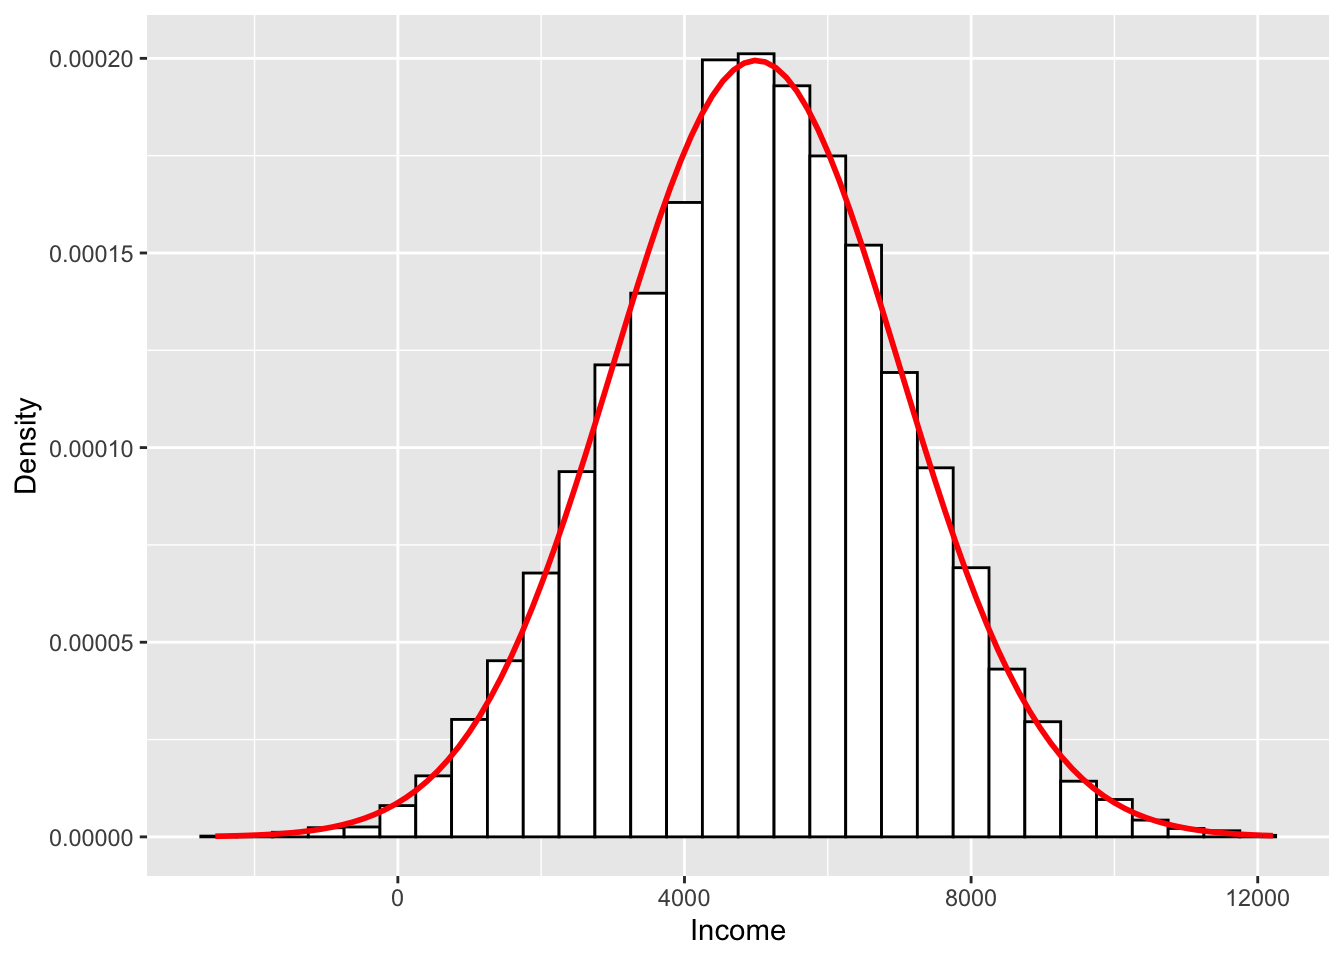
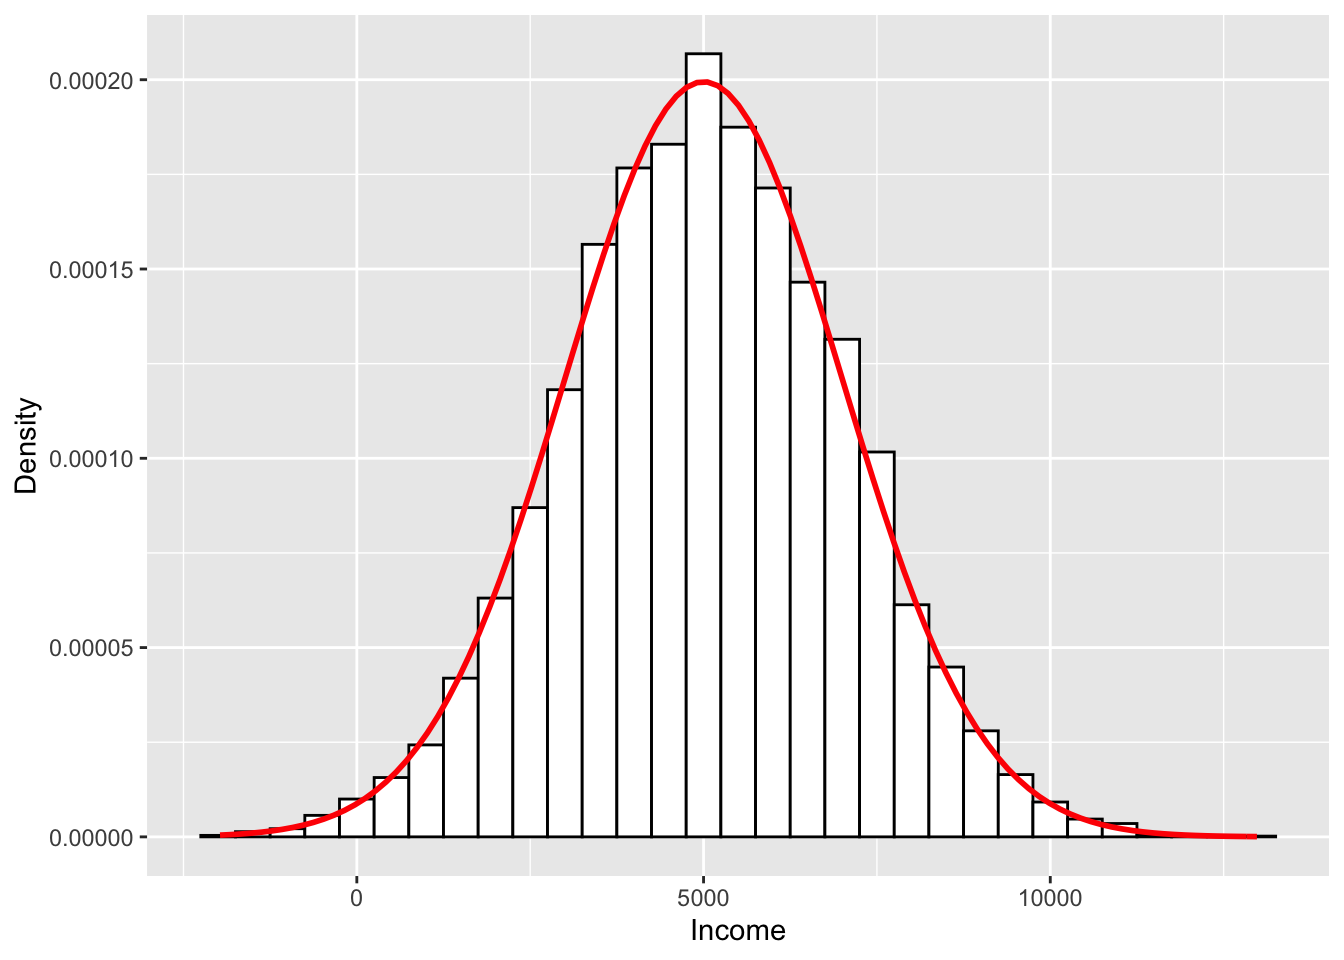
no message

diff --git a/rprogramming/index.html b/rprogramming/index.html
@@ -837,16 +837,16 @@ while (Total &lt; 30) {
   Trial &lt;- Trial + 1
 }</code></pre>
 <pre><code>## [1] &quot;1回目のサイコロ投げの結果: 1(これまでの総和: 1)&quot;
-## [1] &quot;2回目のサイコロ投げの結果: 3(これまでの総和: 4)&quot;
-## [1] &quot;3回目のサイコロ投げの結果: 1(これまでの総和: 5)&quot;
-## [1] &quot;4回目のサイコロ投げの結果: 3(これまでの総和: 8)&quot;
-## [1] &quot;5回目のサイコロ投げの結果: 3(これまでの総和: 11)&quot;
-## [1] &quot;6回目のサイコロ投げの結果: 3(これまでの総和: 14)&quot;
-## [1] &quot;7回目のサイコロ投げの結果: 2(これまでの総和: 16)&quot;
-## [1] &quot;8回目のサイコロ投げの結果: 3(これまでの総和: 19)&quot;
-## [1] &quot;9回目のサイコロ投げの結果: 6(これまでの総和: 25)&quot;
-## [1] &quot;10回目のサイコロ投げの結果: 2(これまでの総和: 27)&quot;
-## [1] &quot;11回目のサイコロ投げの結果: 5(これまでの総和: 32)&quot;</code></pre>
+## [1] &quot;2回目のサイコロ投げの結果: 2(これまでの総和: 3)&quot;
+## [1] &quot;3回目のサイコロ投げの結果: 3(これまでの総和: 6)&quot;
+## [1] &quot;4回目のサイコロ投げの結果: 5(これまでの総和: 11)&quot;
+## [1] &quot;5回目のサイコロ投げの結果: 4(これまでの総和: 15)&quot;
+## [1] &quot;6回目のサイコロ投げの結果: 2(これまでの総和: 17)&quot;
+## [1] &quot;7回目のサイコロ投げの結果: 1(これまでの総和: 18)&quot;
+## [1] &quot;8回目のサイコロ投げの結果: 2(これまでの総和: 20)&quot;
+## [1] &quot;9回目のサイコロ投げの結果: 2(これまでの総和: 22)&quot;
+## [1] &quot;10回目のサイコロ投げの結果: 3(これまでの総和: 25)&quot;
+## [1] &quot;11回目のサイコロ投げの結果: 5(これまでの総和: 30)&quot;</code></pre>
 <p>それでは、コードの説明をします。まず、これまで出た目の和を記録する変数<code>Total</code>を用意し、初期値として0を格納します。また、何回目の投げかを記録するための<code>Trial</code>変数を記録し、初期値として1を格納しておきます (コードの1、2行目)。</p>
 <p>続いて<code>while()</code>文を入れます。反復する条件は<code>Total</code>が30より小さい場合と設定します。つまり、<code>Total</code>が30以上になったら反復を終了することを意味します (コードの4行目)。</p>
 <p>つづいて、サイコロ投げをし、出た目を<code>Dice</code>という変数に格納します。サイコロ投げは1から6の間の整数から無作為に一つを値を抽出することでできます。そこで使われるのが<code>sample()</code>関数です (コードの5行目)。<code>sample()</code>関数は与えられたベクトル内の要素を無作為に抽出する関数です。<code>sample(c(1, 2, 3, 4, 5, 6), 1)</code>は「<code>c(1, 2, 3, 4, 5, 6)</code>から1つの要素を無作為に抽出せよ」という意味です。むろん、複数の要素を抽出することも可能ですし、数値型ベクトルでなく、文字型ベクトルから抽出することも可能です。サイコロ投げをしたら、その目を<code>Total</code>の値に足します (コードの6行目)。</p>
@@ -867,17 +867,16 @@ for (Trial in 1:30) {
     break() # ()は省略可能
   }
 }</code></pre>
-<pre><code>## [1] &quot;1回目のサイコロ投げの結果: 1 (これまでの総和: 1)&quot;
-## [1] &quot;2回目のサイコロ投げの結果: 4 (これまでの総和: 5)&quot;
-## [1] &quot;3回目のサイコロ投げの結果: 6 (これまでの総和: 11)&quot;
-## [1] &quot;4回目のサイコロ投げの結果: 2 (これまでの総和: 13)&quot;
+<pre><code>## [1] &quot;1回目のサイコロ投げの結果: 4 (これまでの総和: 4)&quot;
+## [1] &quot;2回目のサイコロ投げの結果: 5 (これまでの総和: 9)&quot;
+## [1] &quot;3回目のサイコロ投げの結果: 1 (これまでの総和: 10)&quot;
+## [1] &quot;4回目のサイコロ投げの結果: 3 (これまでの総和: 13)&quot;
 ## [1] &quot;5回目のサイコロ投げの結果: 1 (これまでの総和: 14)&quot;
-## [1] &quot;6回目のサイコロ投げの結果: 6 (これまでの総和: 20)&quot;
-## [1] &quot;7回目のサイコロ投げの結果: 2 (これまでの総和: 22)&quot;
-## [1] &quot;8回目のサイコロ投げの結果: 1 (これまでの総和: 23)&quot;
-## [1] &quot;9回目のサイコロ投げの結果: 3 (これまでの総和: 26)&quot;
-## [1] &quot;10回目のサイコロ投げの結果: 3 (これまでの総和: 29)&quot;
-## [1] &quot;11回目のサイコロ投げの結果: 3 (これまでの総和: 32)&quot;</code></pre>
+## [1] &quot;6回目のサイコロ投げの結果: 5 (これまでの総和: 19)&quot;
+## [1] &quot;7回目のサイコロ投げの結果: 1 (これまでの総和: 20)&quot;
+## [1] &quot;8回目のサイコロ投げの結果: 2 (これまでの総和: 22)&quot;
+## [1] &quot;9回目のサイコロ投げの結果: 5 (これまでの総和: 27)&quot;
+## [1] &quot;10回目のサイコロ投げの結果: 3 (これまでの総和: 30)&quot;</code></pre>
 <p>まず、サイコロを何回投げれば良いかは分かりませんが6面サイコロの場合、30回以内には必ず合計30になるので、まず<code>Trial in 1:30</code>とします。あとは<code>while()</code>文の書き方とほぼ同じですが、今回は<code>i</code>が自動的に更新されるので<code>i &lt;- i + 1</code>は不要です。ただし、一定の条件が満たされる場合、<code>for()</code>文を停止する必要があります。そこで登場するのが条件分岐と<code>break()</code>です。条件分岐は次節で説明しますが、これは「<code>Total</code>が30以上になった場合、ループから脱出せよ」を意味します。このループからの脱出を指示する関数が<code>break()</code>です。ちなみに、<code>break()</code>関数は<code>()</code>を抜いて<code>break</code>と書いても問題ありません。また、<code>if(){}</code>内の処理内容は一行ですので、<code>if (Total &gt;= 30) break</code>のような書き方でも問題ありません。</p>
 <p>これは余談ですが、結果の表示に今回はこれまで使ってきた<code>print()</code>と<code>paste0()</code> (または<code>paste()</code>)を使わず、<code>sprintf()</code>を使いました。人によってはこっちの書き方を好む場合もあります。<code>sprintf()</code>内の<code>%d</code>はその位置に指定された変数の値を整数として代入することを意味します。<code>sprintf()</code>はまず、出力する文字列を指定し、続いて代入する変数を順番に引数として入れます。<code>%s</code>は文字型、<code>%f</code>は実数を意味します。<code>%f</code>の場合、少数点の桁数も指定可能であり、小数点2桁まで表示させる場合は<code>%.2f</code>のように表記します。以下のコードは3つの変数の値と文字列を結合する処理を<code>print(paste0())</code>と<code>sprintf()</code>を用いて書いたものであり、同じ動きをします。</p>
 <pre class="r"><code>Name   &lt;- &quot;Song&quot;
@@ -1347,41 +1346,26 @@ DQ_Attack &lt;- function(attack, defence, hp, enemy) {
 <p>初めて見る関数が3つありますね。まず、<code>floor()</code>関数は引数の端数は切り捨てる関数です。たとえば、<code>floor(2.1)</code>も<code>floor(2.6)</code>も結果は2です。続いて、<code>runif()</code>関数は指定された範囲の一様分布から乱数を生成する関数です。引数は生成する乱数の個数 (<code>n</code>)、最小値 (<code>min</code>)、最大値 (<code>max</code>)の3つです。<code>runif(5, 3, 10)</code>なら最小値3、最大値10の乱数を5個生成するという意味です。正規分布は平均値周辺の値が生成されやすい一方、一様分布の場合、ある値が抽出される確率は同じです。最後に<code>round()</code>関数は四捨五入の関数です。引数は2つあり、1つ目の引数は数値型のベクトルです。2つ目は丸める小数点です。たとえば、<code>round(3.127, 1)</code>の結果は<code>3.1</code>であり、<code>round(3.127, 2)</code>の結果は<code>3.13</code>となります。</p>
 <p>それでは「ひのきのぼう」を装備したレベル1の勇者を考えてみましょう。ドラクエ5の場合、Lv1勇者の力は11、「ひのきのぼう」の攻撃力は2ですので、攻撃力は13です。まずは定番のスライムから狩ってみましょう。スライムのHPと守備力は両方7です。</p>
 <pre class="r"><code>DQ_Attack(13, defence = 7, hp = 7, &quot;スライム&quot;)</code></pre>
-<pre><code>## [1] &quot;スライムに6のダメージ!!&quot;
-## [1] &quot;スライムに6のダメージ!!&quot;</code></pre>
+<pre><code>## [1] &quot;スライムに5のダメージ!!&quot;
+## [1] &quot;スライムに5のダメージ!!&quot;</code></pre>
 <pre><code>## [1] &quot;スライムをやっつけた！&quot;</code></pre>
 <p>まぁ、こんなもんでしょう。それではスライムナイト (=ピエール)はどうでしょう。スライムナイトのHPのは40、守備力は44です。</p>
 <pre class="r"><code>DQ_Attack(13, defence = 44, hp = 40, &quot;スライムナイト&quot;)</code></pre>
-<pre><code>## [1] &quot;スライムナイトに1のダメージ!!&quot;
-## [1] &quot;スライムナイトに1のダメージ!!&quot;
-## [1] &quot;スライムナイトに1のダメージ!!&quot;
-## [1] &quot;スライムナイトに1のダメージ!!&quot;
-## [1] &quot;スライムナイトに1のダメージ!!&quot;
+<pre><code>## [1] &quot;スライムナイトに0のダメージ!!&quot;
 ## [1] &quot;スライムナイトに1のダメージ!!&quot;
 ## [1] &quot;スライムナイトに0のダメージ!!&quot;
-## [1] &quot;スライムナイトに0のダメージ!!&quot;
-## [1] &quot;スライムナイトに0のダメージ!!&quot;
 ## [1] &quot;スライムナイトに1のダメージ!!&quot;
-## [1] &quot;スライムナイトに1のダメージ!!&quot;
-## [1] &quot;スライムナイトに1のダメージ!!&quot;
-## [1] &quot;スライムナイトに1のダメージ!!&quot;
-## [1] &quot;スライムナイトに0のダメージ!!&quot;
 ## [1] &quot;スライムナイトに1のダメージ!!&quot;
 ## [1] &quot;スライムナイトに0のダメージ!!&quot;
 ## [1] &quot;スライムナイトに0のダメージ!!&quot;
 ## [1] &quot;スライムナイトに0のダメージ!!&quot;
 ## [1] &quot;スライムナイトに0のダメージ!!&quot;
 ## [1] &quot;スライムナイトに1のダメージ!!&quot;
-## [1] &quot;スライムナイトに0のダメージ!!&quot;
-## [1] &quot;スライムナイトに0のダメージ!!&quot;
-## [1] &quot;スライムナイトに1のダメージ!!&quot;
-## [1] &quot;スライムナイトに0のダメージ!!&quot;
-## [1] &quot;スライムナイトに1のダメージ!!&quot;
-## [1] &quot;スライムナイトに0のダメージ!!&quot;
-## [1] &quot;スライムナイトに1のダメージ!!&quot;
-## [1] &quot;スライムナイトに0のダメージ!!&quot;
 ## [1] &quot;スライムナイトに1のダメージ!!&quot;
 ## [1] &quot;スライムナイトに1のダメージ!!&quot;
+## [1] &quot;スライムナイトに1のダメージ!!&quot;
+## [1] &quot;スライムナイトに1のダメージ!!&quot;
+## [1] &quot;スライムナイトに0のダメージ!!&quot;
 ## [1] &quot;スライムナイトに0のダメージ!!&quot;
 ## [1] &quot;スライムナイトに1のダメージ!!&quot;
 ## [1] &quot;スライムナイトに0のダメージ!!&quot;
@@ -1390,28 +1374,7 @@ DQ_Attack &lt;- function(attack, defence, hp, enemy) {
 ## [1] &quot;スライムナイトに0のダメージ!!&quot;
 ## [1] &quot;スライムナイトに0のダメージ!!&quot;
 ## [1] &quot;スライムナイトに1のダメージ!!&quot;
-## [1] &quot;スライムナイトに0のダメージ!!&quot;
 ## [1] &quot;スライムナイトに1のダメージ!!&quot;
-## [1] &quot;スライムナイトに1のダメージ!!&quot;
-## [1] &quot;スライムナイトに0のダメージ!!&quot;
-## [1] &quot;スライムナイトに1のダメージ!!&quot;
-## [1] &quot;スライムナイトに0のダメージ!!&quot;
-## [1] &quot;スライムナイトに0のダメージ!!&quot;
-## [1] &quot;スライムナイトに1のダメージ!!&quot;
-## [1] &quot;スライムナイトに1のダメージ!!&quot;
-## [1] &quot;スライムナイトに0のダメージ!!&quot;
-## [1] &quot;スライムナイトに0のダメージ!!&quot;
-## [1] &quot;スライムナイトに1のダメージ!!&quot;
-## [1] &quot;スライムナイトに0のダメージ!!&quot;
-## [1] &quot;スライムナイトに1のダメージ!!&quot;
-## [1] &quot;スライムナイトに1のダメージ!!&quot;
-## [1] &quot;スライムナイトに1のダメージ!!&quot;
-## [1] &quot;スライムナイトに0のダメージ!!&quot;
-## [1] &quot;スライムナイトに0のダメージ!!&quot;
-## [1] &quot;スライムナイトに1のダメージ!!&quot;
-## [1] &quot;スライムナイトに0のダメージ!!&quot;
-## [1] &quot;スライムナイトに1のダメージ!!&quot;
-## [1] &quot;スライムナイトに0のダメージ!!&quot;
 ## [1] &quot;スライムナイトに1のダメージ!!&quot;
 ## [1] &quot;スライムナイトに1のダメージ!!&quot;
 ## [1] &quot;スライムナイトに1のダメージ!!&quot;
@@ -1421,10 +1384,54 @@ DQ_Attack &lt;- function(attack, defence, hp, enemy) {
 ## [1] &quot;スライムナイトに0のダメージ!!&quot;
 ## [1] &quot;スライムナイトに0のダメージ!!&quot;
 ## [1] &quot;スライムナイトに1のダメージ!!&quot;
+## [1] &quot;スライムナイトに0のダメージ!!&quot;
+## [1] &quot;スライムナイトに1のダメージ!!&quot;
+## [1] &quot;スライムナイトに0のダメージ!!&quot;
+## [1] &quot;スライムナイトに1のダメージ!!&quot;
+## [1] &quot;スライムナイトに0のダメージ!!&quot;
+## [1] &quot;スライムナイトに0のダメージ!!&quot;
+## [1] &quot;スライムナイトに1のダメージ!!&quot;
+## [1] &quot;スライムナイトに0のダメージ!!&quot;
+## [1] &quot;スライムナイトに0のダメージ!!&quot;
+## [1] &quot;スライムナイトに0のダメージ!!&quot;
+## [1] &quot;スライムナイトに0のダメージ!!&quot;
 ## [1] &quot;スライムナイトに1のダメージ!!&quot;
 ## [1] &quot;スライムナイトに0のダメージ!!&quot;
 ## [1] &quot;スライムナイトに1のダメージ!!&quot;
 ## [1] &quot;スライムナイトに1のダメージ!!&quot;
+## [1] &quot;スライムナイトに0のダメージ!!&quot;
+## [1] &quot;スライムナイトに0のダメージ!!&quot;
+## [1] &quot;スライムナイトに1のダメージ!!&quot;
+## [1] &quot;スライムナイトに1のダメージ!!&quot;
+## [1] &quot;スライムナイトに0のダメージ!!&quot;
+## [1] &quot;スライムナイトに0のダメージ!!&quot;
+## [1] &quot;スライムナイトに1のダメージ!!&quot;
+## [1] &quot;スライムナイトに0のダメージ!!&quot;
+## [1] &quot;スライムナイトに1のダメージ!!&quot;
+## [1] &quot;スライムナイトに1のダメージ!!&quot;
+## [1] &quot;スライムナイトに0のダメージ!!&quot;
+## [1] &quot;スライムナイトに1のダメージ!!&quot;
+## [1] &quot;スライムナイトに1のダメージ!!&quot;
+## [1] &quot;スライムナイトに0のダメージ!!&quot;
+## [1] &quot;スライムナイトに0のダメージ!!&quot;
+## [1] &quot;スライムナイトに0のダメージ!!&quot;
+## [1] &quot;スライムナイトに1のダメージ!!&quot;
+## [1] &quot;スライムナイトに0のダメージ!!&quot;
+## [1] &quot;スライムナイトに1のダメージ!!&quot;
+## [1] &quot;スライムナイトに1のダメージ!!&quot;
+## [1] &quot;スライムナイトに1のダメージ!!&quot;
+## [1] &quot;スライムナイトに0のダメージ!!&quot;
+## [1] &quot;スライムナイトに0のダメージ!!&quot;
+## [1] &quot;スライムナイトに0のダメージ!!&quot;
+## [1] &quot;スライムナイトに1のダメージ!!&quot;
+## [1] &quot;スライムナイトに1のダメージ!!&quot;
+## [1] &quot;スライムナイトに0のダメージ!!&quot;
+## [1] &quot;スライムナイトに1のダメージ!!&quot;
+## [1] &quot;スライムナイトに0のダメージ!!&quot;
+## [1] &quot;スライムナイトに1のダメージ!!&quot;
+## [1] &quot;スライムナイトに0のダメージ!!&quot;
+## [1] &quot;スライムナイトに1のダメージ!!&quot;
+## [1] &quot;スライムナイトに0のダメージ!!&quot;
 ## [1] &quot;スライムナイトに0のダメージ!!&quot;
 ## [1] &quot;スライムナイトに1のダメージ!!&quot;</code></pre>
 <pre><code>## [1] &quot;スライムナイトをやっつけた！&quot;</code></pre>

diff --git a/dplyr_intro/index.html b/dplyr_intro/index.html
@@ -166,7 +166,7 @@
 <ul>
 <li>Song Jaehyun・矢内勇生『私たちのR: あなたのために書いたわけじゃない (仮)』(E-book)
 <ul>
-<li>前半は「データハンドリング [基礎編: 抽出]」章、後半は「データハンドリング [基礎編: 拡張]」章に基づいており、factor型の扱いについては「可視化」章の一部抜粋しております。</li>
+<li>前半は「データハンドリング [基礎編: 抽出]」章、後半は「データハンドリング [基礎編: 拡張]」章に基づいており、factor型の扱いについては「可視化」章を一部抜粋しております。</li>
 </ul></li>
 <li>したがって、いきなり<strong>オブジェクト</strong>、<strong>関数</strong>、<strong>引数</strong>といった馴染みのない概念が出てきます。これらの概念に馴染みのない方は、予め「<a href="../rprogramming/">Rプログラミング入門の入門</a>」をご一読ください。</li>
 </ul></li>
@@ -1011,18 +1011,18 @@ select.df %&gt;%
 select.df %&gt;% 
   slice_sample(n = 10)</code></pre>
 <pre><code>## # A tibble: 10 x 5
-##    ID      Name                             Pref     Budget Score
-##    &lt;chr&gt;   &lt;chr&gt;                            &lt;chr&gt;     &lt;dbl&gt; &lt;dbl&gt;
-##  1 7119437 麺屋桜息吹                       兵庫県       NA     5
-##  2 7647453 麺屋 IKUMALU                     神奈川県     NA    NA
-##  3 7711942 越後秘蔵麺 無尽蔵 コロワ甲子園店 兵庫県     1000    NA
-##  4 0044977 茂司                             東京都       NA    NA
-##  5 5508023 梁香亭                           兵庫県       NA    NA
-##  6 5023663 松並亭                           埼玉県       NA    NA
-##  7 5822495 やまざき屋                       奈良県     1000    NA
-##  8 5508231 天下一品 塚口店                  兵庫県       NA     3
-##  9 5506959 天下一品 西長堀店                大阪府       NA     2
-## 10 7690929 ラーメン まこと屋 天理田井庄町店 奈良県       NA    NA</code></pre>
+##    ID      Name                         Pref     Budget Score
+##    &lt;chr&gt;   &lt;chr&gt;                        &lt;chr&gt;     &lt;dbl&gt; &lt;dbl&gt;
+##  1 7625538 らー麺つけ麺 みやがわ        神奈川県     NA    NA
+##  2 6277951 第一旭 関目店                大阪府       NA     4
+##  3 7615401 珍來四街道店                 千葉県       NA    NA
+##  4 7377096 一蘭 大阪茨木店              大阪府      800    NA
+##  5 7711948 越後秘蔵麺 無尽蔵 かわぐち家 埼玉県     1000    NA
+##  6 5026511 ラーメン ゆき                千葉県       NA    NA
+##  7 6981989 コトホギ                     埼玉県       NA    NA
+##  8 7378934 宮本商店 川口新井宿店        埼玉県       NA    NA
+##  9 5507875 天竜ラーメン                 大阪府       NA    NA
+## 10 6272919 めん家                       京都府       NA    NA</code></pre>
 <p>のように書きます。ブートストラップ法や機械学習における交差検証 (cross-validation)の際に有用な関数ですが、ブートストラップや機械学習のパッケージの多くはサンプル分割の関数を提供しているため、あまり使う機会はないでしょう。また、<code>slice_sample()</code>関数をブートストラップ法のために用いる場合は、ケースを反復抽出する必要があり、<code>replace = TRUE</code>を付けると反復抽出を行います。デフォルト値は<code>FALSE</code>です。</p>
 </div>
 <div id="条件に合致する行を抽出する" class="section level3">

diff --git a/simulation/llm/index.html b/simulation/llm/index.html
@@ -197,7 +197,7 @@ library(tidyverse)</code></pre>
 <p>これで10210人のナウル国民の所得を設定した。ならば生成されたデータを見てみる。</p>
 <pre class="r"><code>summary(nauru.income)</code></pre>
 <pre><code>##    Min. 1st Qu.  Median    Mean 3rd Qu.    Max. 
-##   -2547    3652    5014    5016    6368   12212</code></pre>
+##   -1973    3669    5028    5031    6409   12980</code></pre>
 <p>ナウル国民の所得の平均は5017ドル、最小値は-1761だそうだ。「所得にマイナスなんてあり得るか！」と思うかも知れないが、細かいことは無視しよう。知りたいのは大数の法則を経験的に確認することであって、ナウル国民の所得ではない。</p>
 <p>次はヒストグラムで見てみよう。</p>
 <pre class="r"><code>plot1 &lt;- ggplot(data = data.frame(nauru.income)) + 
